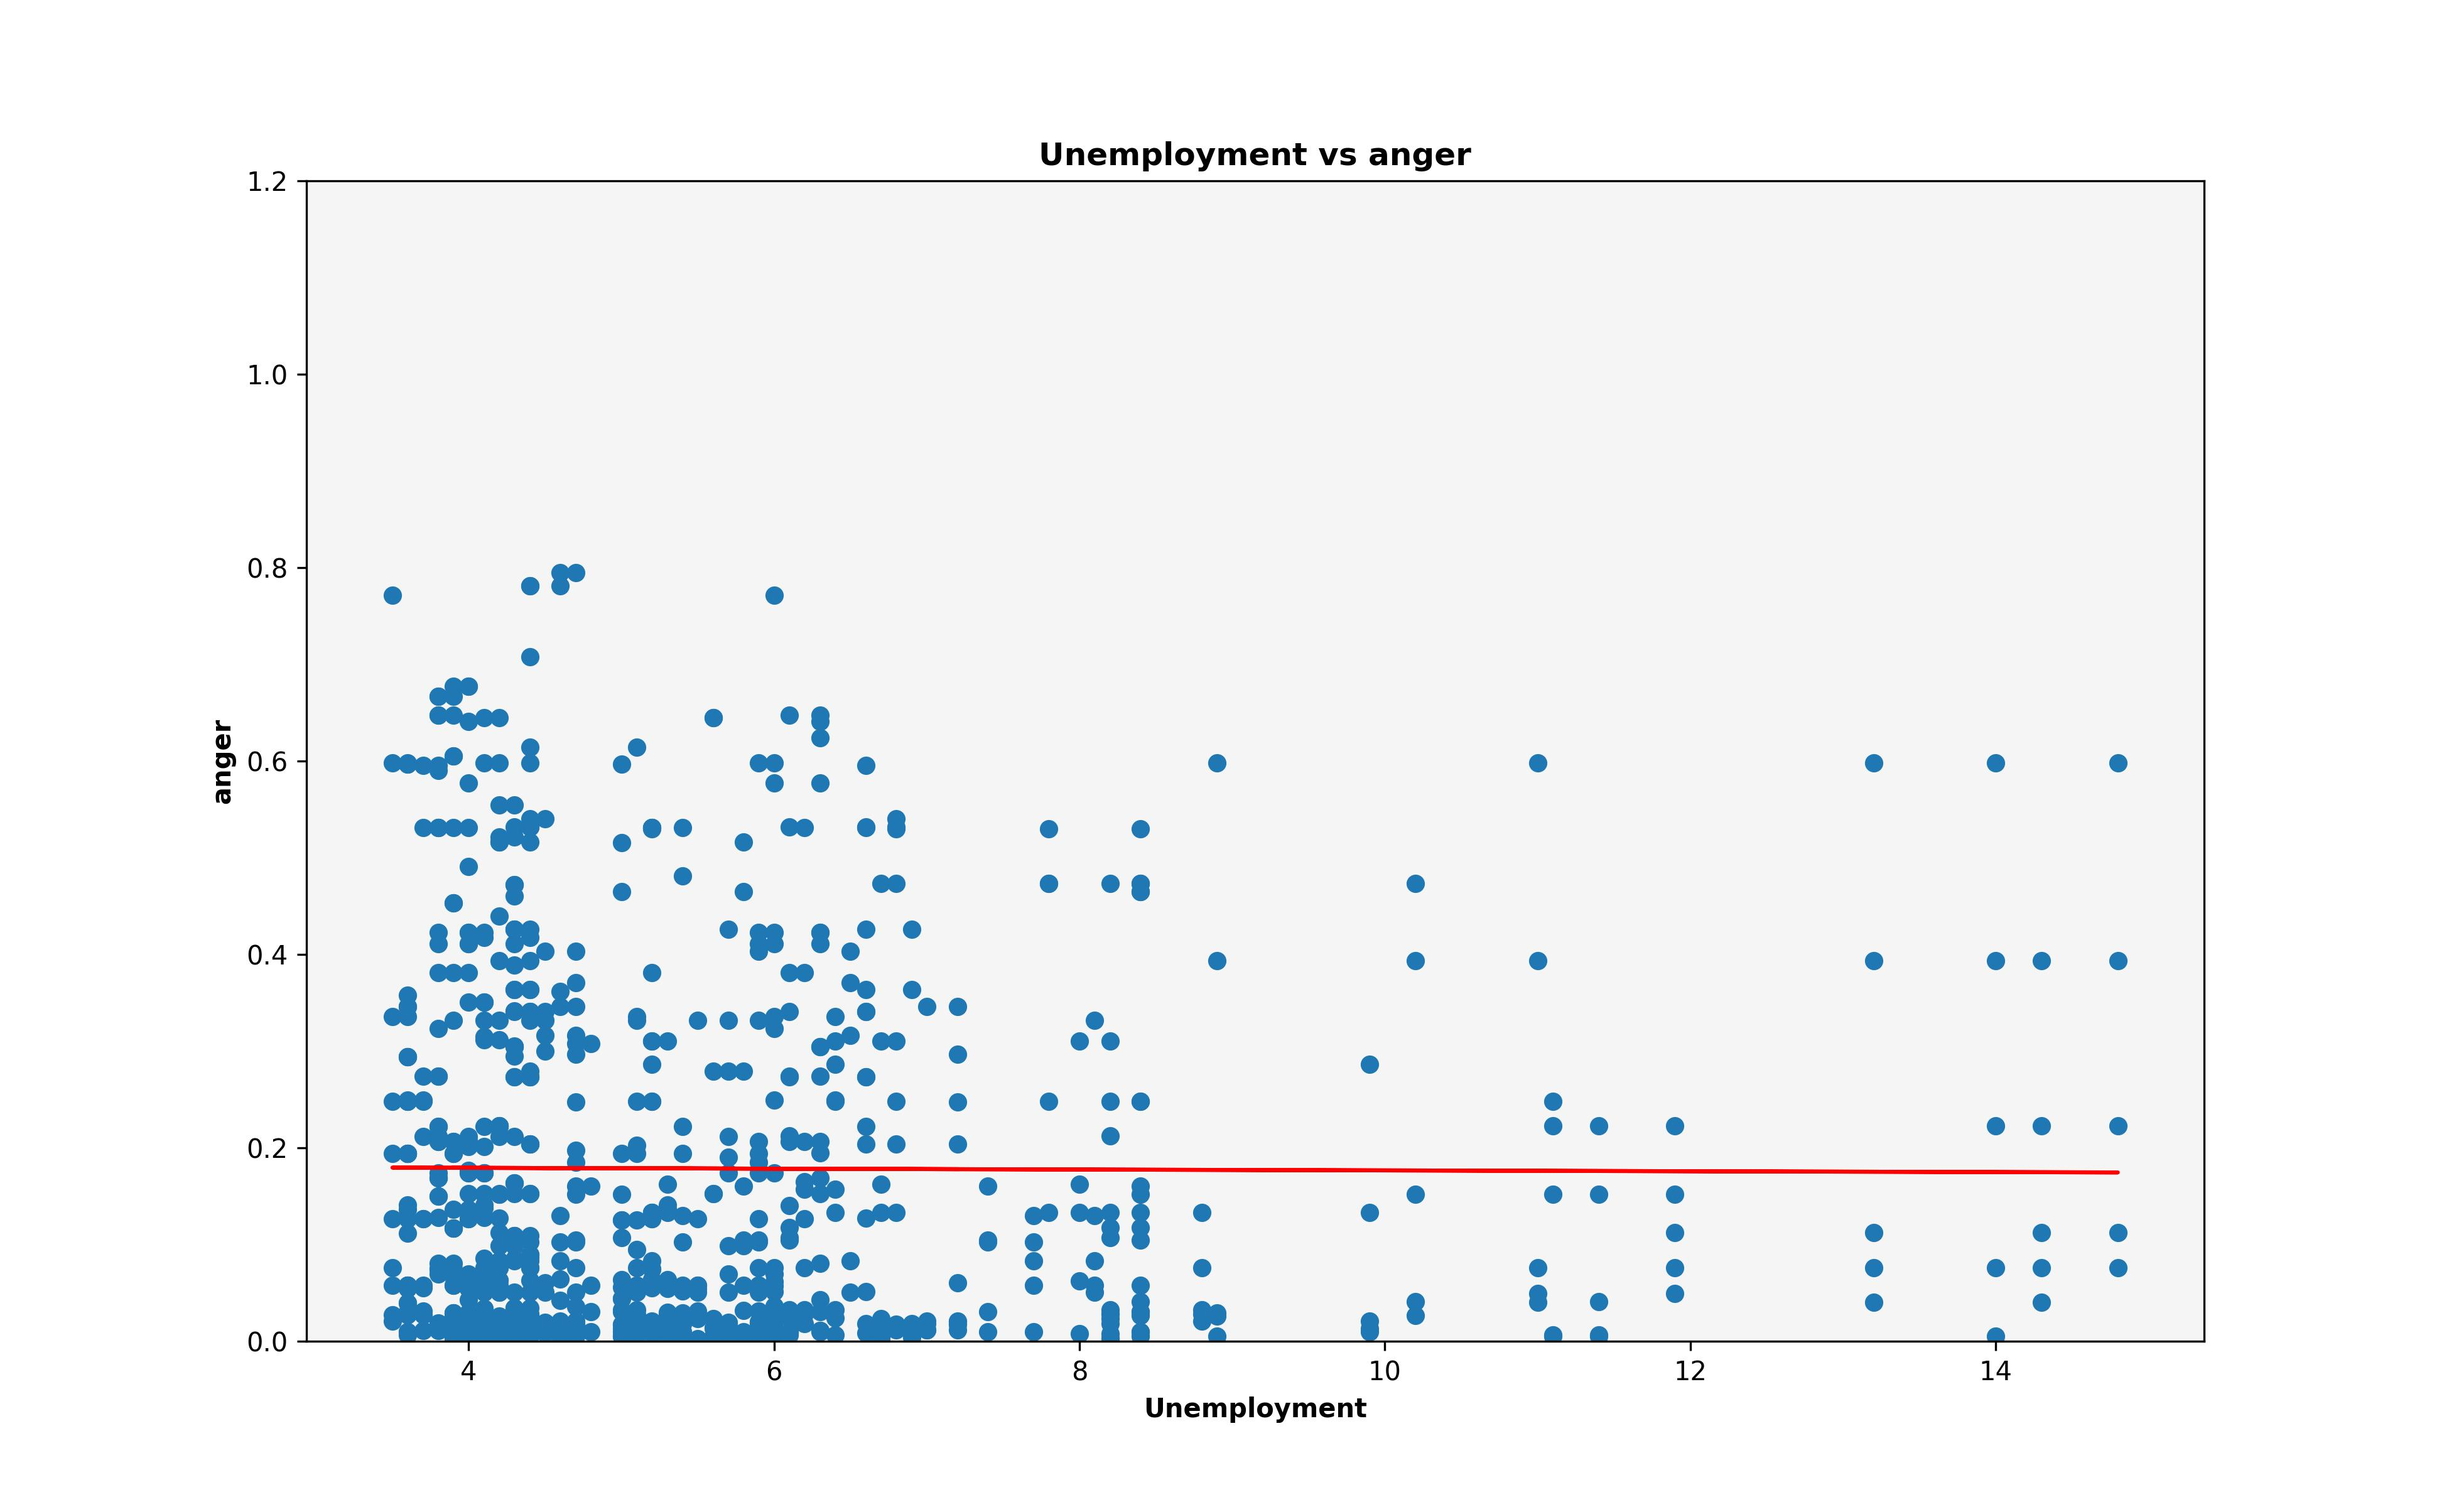
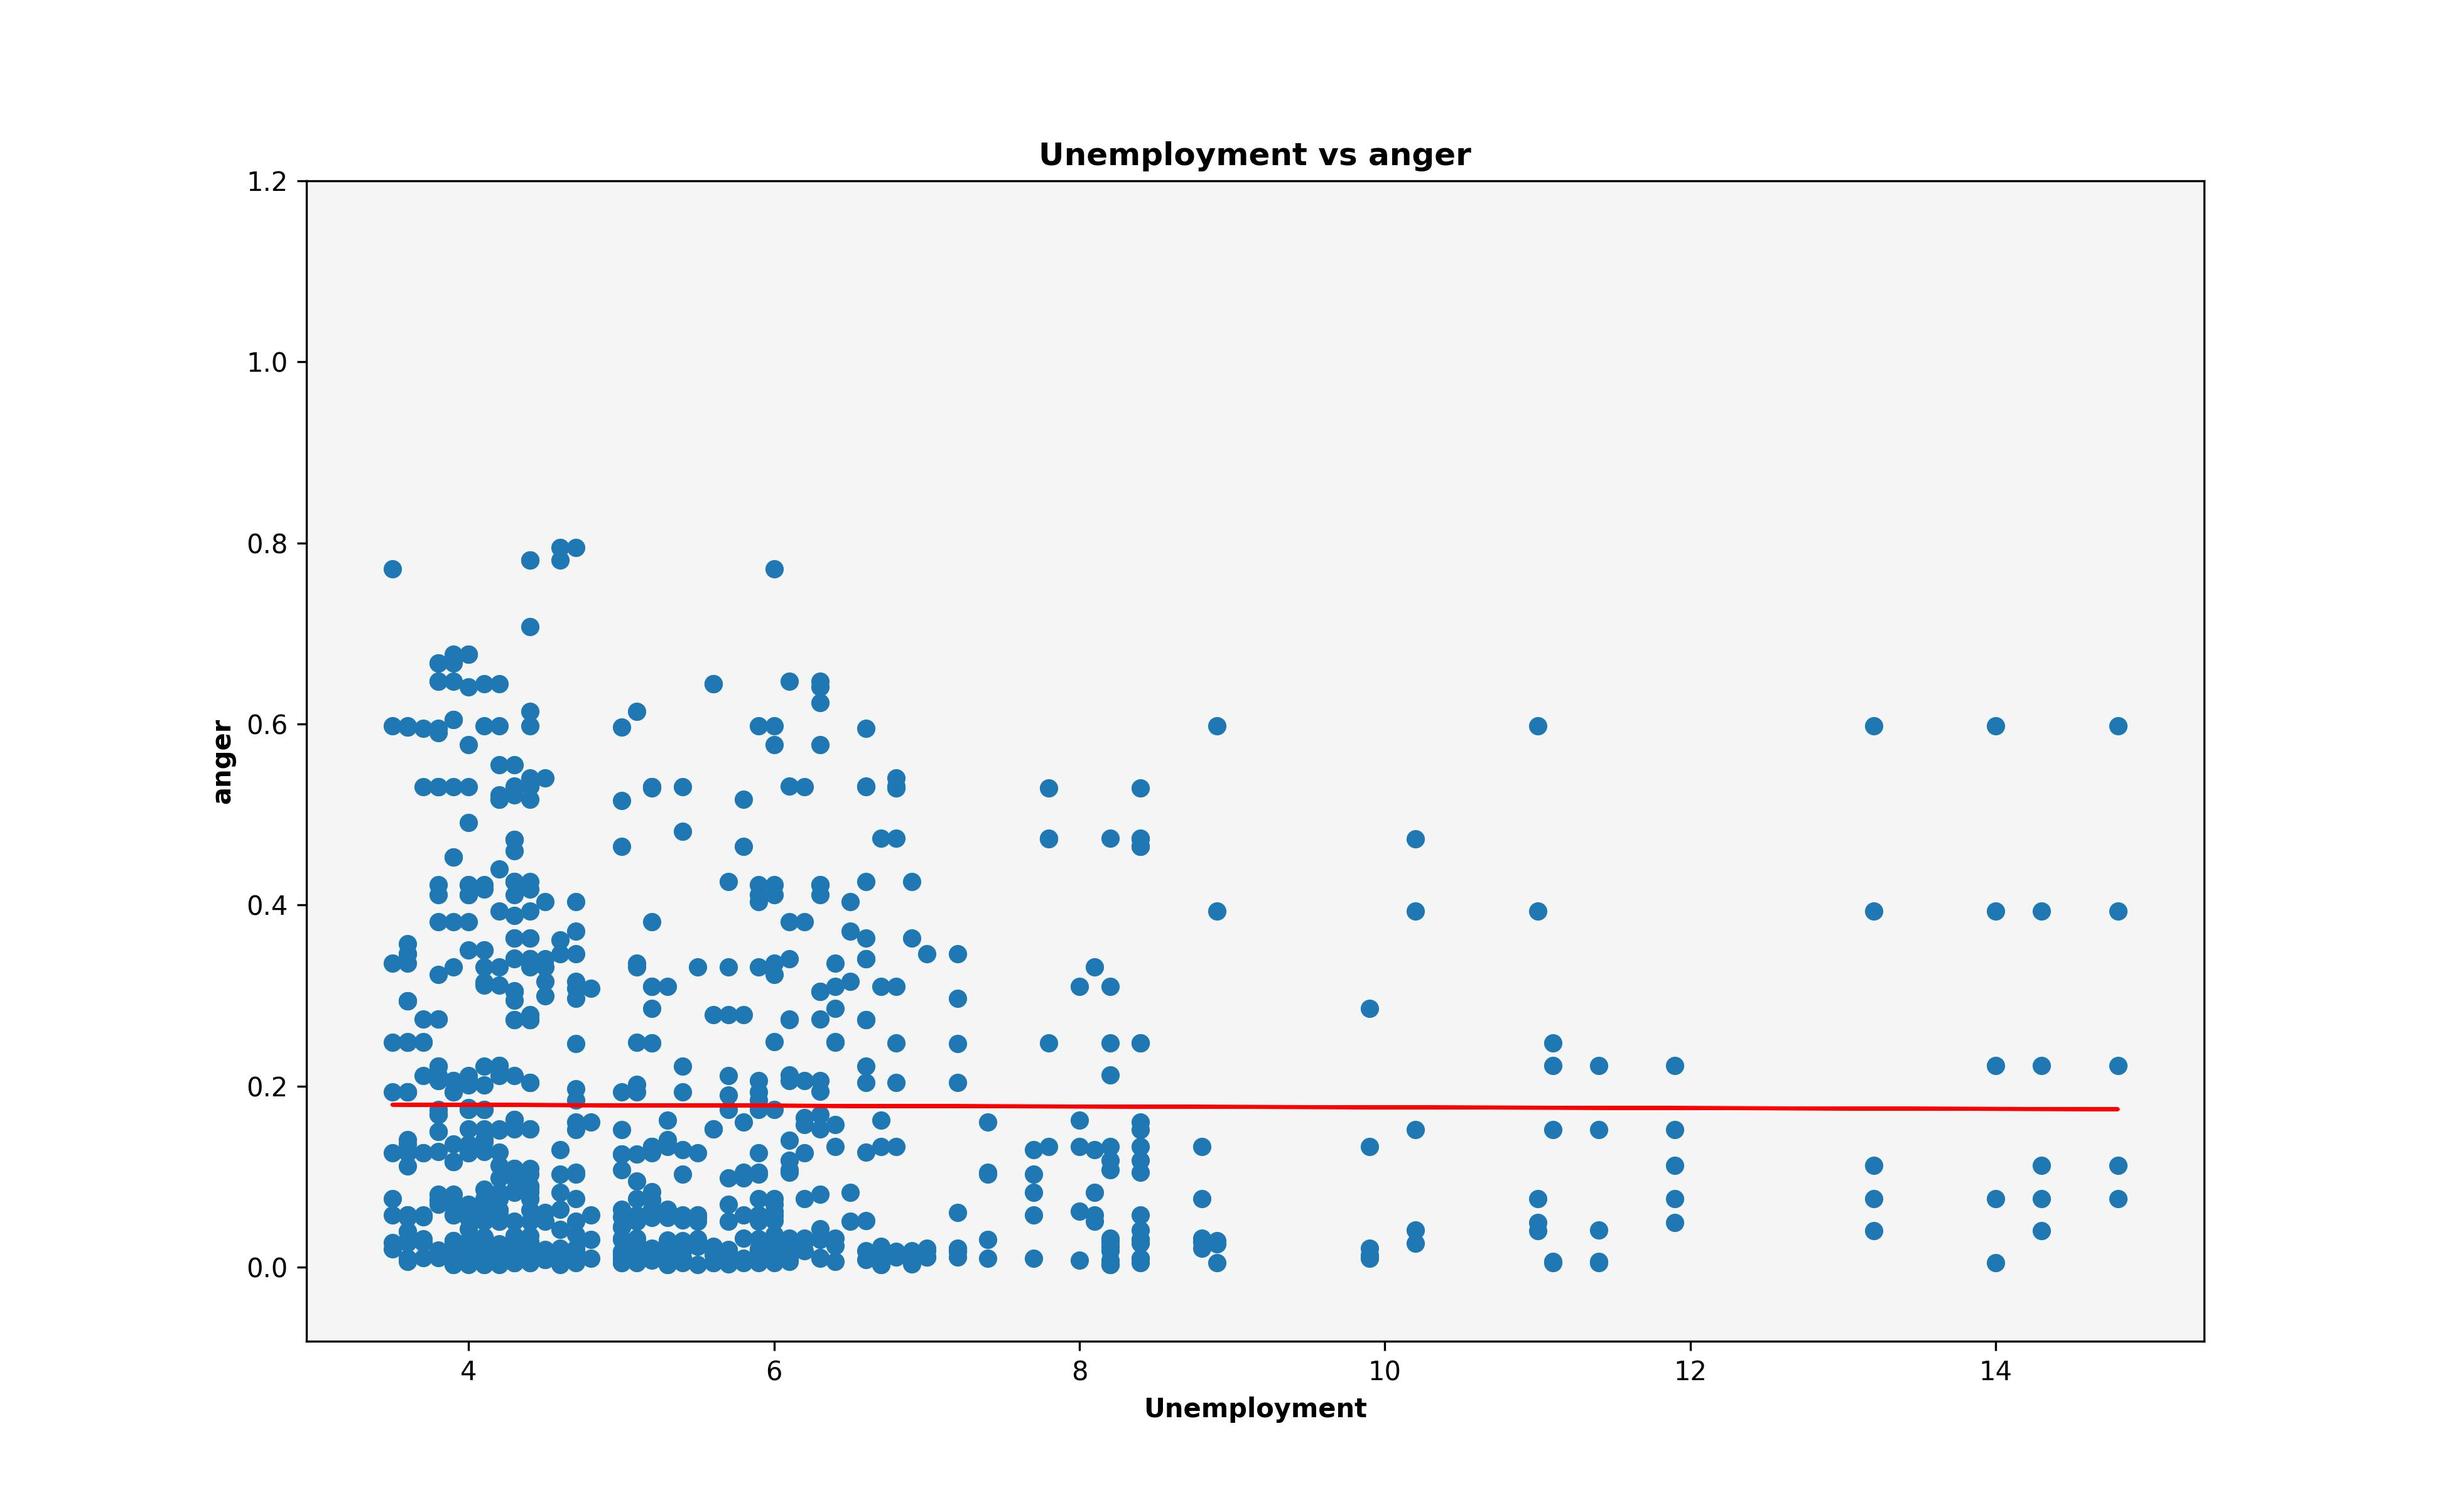
mostly done with everything

diff --git a/code/main.py b/code/main.py
@@ -1,23 +1,20 @@
 from json import load
+from mimetypes import init
 import pandas as pd
 import tensorflow as tf
 import matplotlib.pyplot as plt
 from preprocess import load_data, data_split
 import statsmodels.api as sm
-from sklearn.model_selection import GridSearchCV
 from sklearn.metrics import mean_squared_error
-from sklearn.linear_model import Lasso, LassoCV
-from sklearn.linear_model import Ridge, RidgeCV
-
-from sklearn.cluster import AgglomerativeClustering
-from sklearn.cluster import KMeans
-from sklearn.decomposition import PCA
-
-from sklearn.neural_network import MLPClassifier
+from sklearn.metrics import confusion_matrix
+import seaborn as sns
+from sklearn.inspection import PartialDependenceDisplay
+from sklearn.neural_network import MLPClassifier, MLPRegressor
 from sklearn.metrics import accuracy_score
 from sklearn.preprocessing import StandardScaler
-from sklearn.pipeline import make_pipeline
 import numpy as np
+
+
 
 
 def visualise(df, y):
@@ -27,7 +24,7 @@ def visualise(df, y):
     m, b = np.polyfit(df['unemployment'], df[y], 1)
     plt.plot(df['unemployment'], m * df['unemployment'] + b, color='red')
     ax.set_facecolor("whitesmoke")
-    plt.ylim(0, 1.2)
+    plt.ylim(top=1.2)
     plt.ylabel(y, fontweight="bold")
     plt.xlabel("Unemployment", fontweight="bold")
     plt.title('Unemployment vs ' + y, fontweight="bold")
@@ -41,7 +38,7 @@ def linear_regressors(df):
     '''
     outcomes = ['anger', 'love', 'sadness', 'emotions_id']
     for y in outcomes:
-        X_train, X_test, y_train, y_test = data_split(df,y)
+        X_train, X_test, y_train, y_test, cols = data_split(df,y)
         sm.add_constant(X_train)
         sm.add_constant(X_test)
         #print(X_train.head())
@@ -64,6 +61,104 @@ def linear_regressors(df):
         print(trained_ols.summary())
 
 
+def multilayer(df):
+    '''Training the multilayer neural network'''
+    #'anger', 'love', 'sadness', 
+    outcomes = ['anger', 'love', 'sadness', 'emotions_id']
+    for y in outcomes:
+        X_train, X_test, y_train, y_test, cols = data_split(df,y)
+        #print(X_train)
+        scaler=StandardScaler() 
+        scaler.fit(X_train) 
+        X_train = scaler.transform(X_train)
+        X_test = scaler.transform(X_test)
+        #Initializing a multilayer perceptron classifer with defined hidden layers, optimizer, and learning rate
+        if y == 'emotions_id':
+            MLP = MLPClassifier(
+            random_state=1680,
+                                activation='logistic', solver='adam', 
+                                max_iter =500,
+                                 learning_rate_init=0.01)
+            MLP.fit(X_train,y_train) 
+            print(accuracy_score(y_train,MLP.predict(X_train)))
+            print("mlp test accuracy:")
+            print(accuracy_score(y_test, MLP.predict(X_test)))
+            cm = confusion_matrix(y_test, MLP.predict(X_test))
+            
+            # Plotting confusion matrix
+            plt.figure(figsize=(8, 6))
+            sns.heatmap(cm, annot=True, fmt='g', cmap='Blues', 
+                        xticklabels=MLP.classes_, yticklabels=MLP.classes_)
+            plt.xlabel('Predicted')
+            plt.ylabel('Actual')
+            plt.title(f'Confusion Matrix for {y}')
+            plt.savefig('../outputs/emotion_cm.jpeg', dpi=300)
+            plt.show()
+
+            
+            unemployment_index = cols.get_loc('unemployment')
+            print(unemployment_index)
+            # Plot Partial Dependence Plot for 'unemployment'
+            pd_display = PartialDependenceDisplay.from_estimator(MLP, X_test, features=[unemployment_index])
+            pd_display.plot()
+            plt.title('Partial Dependence Plot for Unemployment - ' + y)
+            plt.xlabel('Unemployment')
+            plt.ylabel('Average Prediction of negative emotions')
+            plt.tight_layout()
+            plt.savefig('../outputs/emotion_id_mlp.jpeg', dpi=300)
+            plt.show()
+            
+        
+            
+
+        else:
+            MLP = MLPRegressor(
+            random_state=1680,
+                                activation='logistic', solver='adam', 
+                                max_iter =500,
+                                learning_rate_init=0.01)
+            MLP.fit(X_train,y_train)
+            #print(MLP.predict(X_test).shape)
+            print(MLP.score(X_train,y_train))
+            #print("mlp test accuracy:")
+
+            print(MLP.score(X_test, y_test))
+
+            unemployment_index = cols.get_loc('unemployment')
+            print(unemployment_index)
+            # Plot Partial Dependence Plot for 'unemployment'
+            pd_display = PartialDependenceDisplay.from_estimator(MLP, X_test, features=[unemployment_index], kind='both')
+            pd_display.plot()
+            plt.title('Partial Dependence Plot for Unemployment - ' + y)
+            plt.xlabel('Unemployment')
+            plt.ylabel('Average Prediction of ' + y)
+            plt.tight_layout()
+            plt.savefig('../outputs/' + y + '_mlp.jpeg', dpi=300)
+            plt.show()
+
+
+
+       
+def visualize_trend(init_data):
+    df = init_data[init_data['emotions_id'] <= 1]
+    df['date'] = pd.to_datetime(df[['year', 'month']].assign(day=1))
+    df['emotional'] = df['emotions_id'].apply(lambda x: 'Negative Emotion' if x == 1 else 'Positive Emotion')
+    # Plot the data
+    plt.figure(figsize=(10, 6))
+
+    # Use Seaborn's lineplot to plot unemployment rate over time for each category of y
+    sns.lineplot(x='date', y='unemployment', hue='emotional', data=df, palette='colorblind')
+    plt.title('Unemployment Rate Over Time for Negative and Positive Emotions')
+
+    plt.xlabel('Date')
+    plt.ylabel('Unemployment Rate')
+    plt.xticks(rotation=45)
+    plt.grid(True)
+    plt.tight_layout()
+    plt.savefig('../outputs/unemployment_trends.jpeg')
+    plt.show()
+
+
 
 
 def main():
@@ -71,10 +166,13 @@ def main():
     init_data = load_data()
     #init_data = init_data[(init_data['emotions_id'] <=1)]
     #print(len(init_data))
-    print(init_data.describe())
+    #print(init_data.describe())
     init_data.describe().to_csv('../outputs/descriptive_stats.csv')
-    linear_regressors(init_data)
-    #coef_comp=pd.DataFrame({'var':X_train.columns, 'val_ols':trained_ols.params.tolist()})
+    #linear_regressors(init_data)
+
+    #multilayer(init_data)
+
+    #visualize_trend(init_data)
     
 
 

diff --git a/code/preprocess.py b/code/preprocess.py
@@ -30,9 +30,10 @@ def data_split(init_df, ycol):
     #print(len(init_df))
     if ycol == 'emotions_id':
         init_df = init_df[init_df['emotions_id'] <= 1]
-        print(len(init_df))
+        #print(len(init_df))
     y=init_df[ycol]
     init_df = init_df.astype(float)
     X=init_df.drop(columns=[ycol])
+    cols = X.columns
     X_train, X_test, y_train, y_test = train_test_split(X, y, test_size=0.2, random_state=1680)
-    return X_train, X_test, y_train, y_test
+    return X_train, X_test, y_train, y_test, cols
